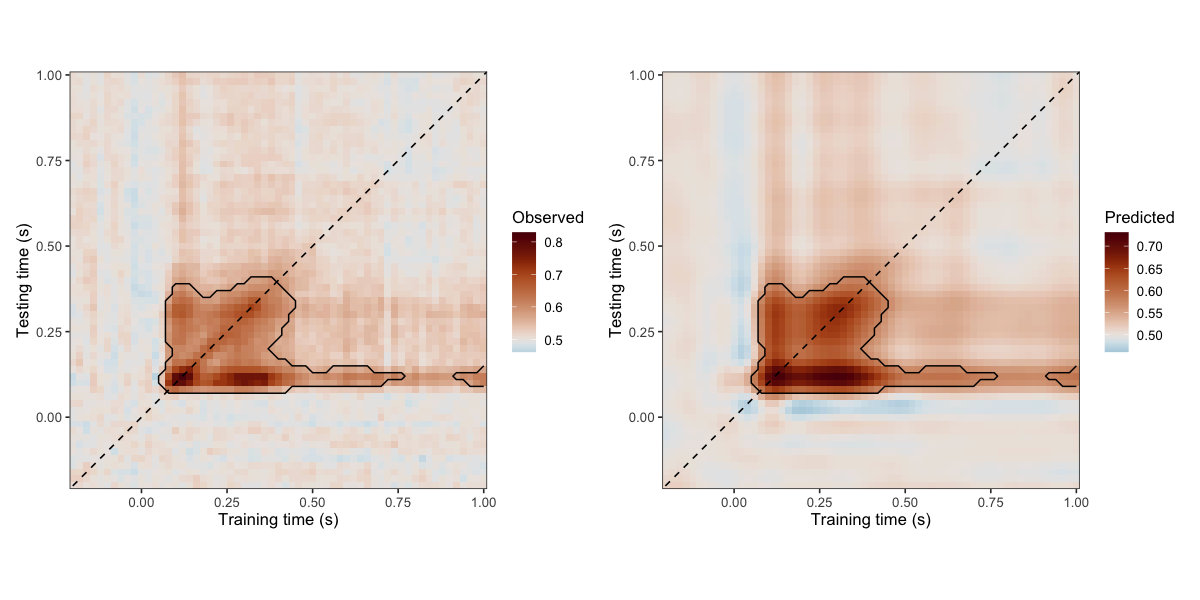
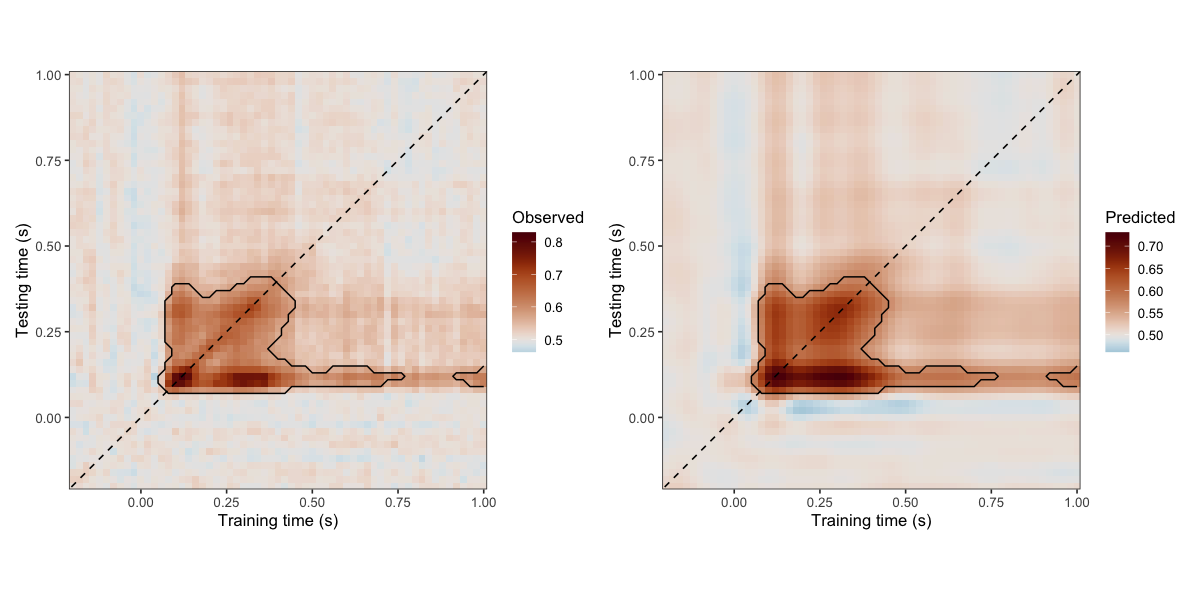
minor updates to pkgdown site and cran comments

diff --git a/docs/articles/eeg_spatio_temporal.html b/docs/articles/eeg_spatio_temporal.html
@@ -281,7 +281,7 @@ y_{i,s,t} \sim \mathcal{N}(\mu_{i,s,t},\sigma^2), \qquad
 <span>        d <span class="op">=</span> <span class="fu"><a href="https://rdrr.io/r/base/c.html" class="external-link">c</a></span><span class="op">(</span><span class="fl">2</span>, <span class="fl">1</span><span class="op">)</span></span>
 <span>        <span class="op">)</span> <span class="op">+</span></span>
 <span>    <span class="op">(</span><span class="fl">1</span> <span class="op">|</span> <span class="va">participant</span><span class="op">)</span></span></code></pre></div>
-<p>The <code>d = c(2, 1)</code> argument defines two tensor-product marginals: one comprising <span class="math inline">\((x,y)\)</span> and another comprising time. Accordingly, <code>k = c(15, 10)</code> specifies the basis dimensions for <strong>two marginals</strong>, rather than a separate basis dimension for each of the three coordinates. The <code>k</code> values control basis flexibility, not the exact number of observed electrodes or time samples. See the <a href="https://stat.ethz.ch/R-manual/R-patched/library/mgcv/help/te.html" class="external-link">mgcv tensor-product documentation</a> and <a href="https://peerj.com/articles/6876/" class="external-link">Pedersen et al. (2019)</a>.</p>
+<p>The <code>d = c(2, 1)</code> argument defines two tensor-product marginals: one comprising <span class="math inline">\((x,y)\)</span> and another comprising time. Accordingly, <code>k = c(15, 10)</code> specifies the basis dimensions for <strong>two marginals</strong>, rather than a separate basis dimension for each of the three coordinates. The <code>k</code> values control basis flexibility, not the exact number of observed electrodes or time samples. See the <a href="https://stat.ethz.ch/R-manual/R-patched/library/mgcv/help/te.html" class="external-link">mgcv tensor-product documentation</a> and <a href="https://pmc.ncbi.nlm.nih.gov/articles/PMC6542350/" class="external-link">Pedersen et al. (2019)</a>.</p>
 <p><code>neurogam</code> constructs the formula automatically. We can inspect it without fitting anything:</p>
 <div class="sourceCode" id="cb8"><pre class="downlit sourceCode r">
 <code class="sourceCode R"><span><span class="va">formula_st</span> <span class="op">&lt;-</span> <span class="fu"><a href="../reference/make_bgam_formula.html">make_bgam_formula</a></span><span class="op">(</span></span>

diff --git a/docs/articles/temporal_2d.html b/docs/articles/temporal_2d.html
@@ -128,7 +128,7 @@
 <p>To model cross-temporal decoding performance, we use a BGAMM with a two-dimensional tensor-product smooth over training and testing times. The smooth term <code>t2(train_time, test_time)</code> allows the model to capture potentially nonlinear variation in decoding accuracy across the temporal generalisation matrix. We additionally include a participant-specific random intercept to account for between-participant differences in overall decoding performance, without introducing participant-specific smooths.</p>
 <p>Compared with one-dimensional temporal models, two-dimensional BGAMMs can be considerably more computationally demanding because they estimate a smooth surface rather than a single time course. We therefore recommend beginning with a relatively simple model, using moderate basis dimensions (<code>k</code>), before considering more complex random-effects structures.</p>
 <p>The example below uses two MCMC chains with within-chain parallelisation, implemented through <code>brms</code> and the <code>cmdstanr</code> backend. Computational requirements depend on the number of observations, basis dimensions, model structure, and available hardware.</p>
-<p>For a broader introduction to generalised additive models and tensor-product smooths, see <a href="https://peerj.com/articles/6876/" class="external-link">Pedersen et al. (2019)</a>.</p>
+<p>For a broader introduction to generalised additive models and tensor-product smooths, see <a href="https://pmc.ncbi.nlm.nih.gov/articles/PMC6542350/" class="external-link">Pedersen et al. (2019)</a>.</p>
 <div class="sourceCode" id="cb2"><pre class="downlit sourceCode r">
 <code class="sourceCode R"><span><span class="kw"><a href="https://rdrr.io/r/base/library.html" class="external-link">library</a></span><span class="op">(</span><span class="va"><a href="https://github.com/paul-buerkner/brms" class="external-link">brms</a></span><span class="op">)</span></span>
 <span></span>

diff --git a/docs/index.html b/docs/index.html
@@ -86,12 +86,12 @@
 <thead><tr>
 <th align="left">Analysis</th>
 <th align="left">Typical applications</th>
-<th align="left">Coordinates used for clustering</th>
+<th align="left">Coordinates</th>
 </tr></thead>
 <tbody>
 <tr>
 <td align="left"><strong>Temporal (1D)</strong></td>
-<td align="left">M/EEG or EMG time courses, pupillometry, representational similarity analysis (RSA), decoding accuracy, movement trajectories</td>
+<td align="left">EMG or M/EEG time courses (e.g., ERPs), pupillometry, representational similarity analysis (RSA), decoding accuracy, movement trajectories, etc.</td>
 <td align="left">Time</td>
 </tr>
 <tr>
@@ -383,7 +383,7 @@
 <div class="dev-status">
 <h2 data-toc-skip>Dev status</h2>
 <ul class="list-unstyled">
-<li><a href="https://www.repostatus.org/#wip" class="external-link"><img src="https://www.repostatus.org/badges/latest/wip.svg" alt="Repo status"></a></li>
+<li><a href="https://www.repostatus.org/#active" class="external-link"><img src="https://www.repostatus.org/badges/latest/active.svg" alt="Repo status"></a></li>
 <li><a href="https://github.com/lnalborczyk/neurogam" class="external-link"><img src="https://img.shields.io/github/repo-size/lnalborczyk/neurogam" alt="Repo size"></a></li>
 <li><a href="https://github.com/lnalborczyk/neurogam" class="external-link"><img src="https://img.shields.io/github/last-commit/lnalborczyk/neurogam" alt="Last commit"></a></li>
 </ul>

diff --git a/cran-comments.md b/cran-comments.md
@@ -1,19 +1,31 @@
-## Initial submission
+# CRAN submission comments
 
-This is the first submission of neurogam to CRAN.
+## Submission
 
-## R CMD check results
+This is the first submission of `neurogam` (version 0.1.0) to CRAN.
 
-0 errors | 0 warnings | 1 note
+## Test environments and check results
 
-The NOTE concerns the initial submission and the size of the source package.
+- macOS Sequoia 15.7.4 (Apple Silicon, aarch64), R 4.5.2: 0 ERRORs, 0 WARNINGs, 1 NOTE.
+- Windows Server 2022 (x86_64, UCRT), R-devel (2026-10-28, r90783), via win-builder: 0 ERRORs, 0 WARNINGs, 1 NOTE.
+- Ubuntu Linux, via GitHub Actions (CRAN-style R CMD check): checks passed.
 
-The package includes example electrophysiological datasets and precomputed documentation illustrating Bayesian analysis of time-resolved data. Computationally expensive Bayesian model fits are not executed during package checks.
+Package installation, examples, unit tests, vignette rebuilding, and PDF/HTML manual checks passed on both macOS and Windows R-devel.
 
-All vignettes build successfully without requiring cached model objects or fitting Bayesian models.
+## Notes
 
-## Platforms tested
+The incoming feasibility NOTE identifies this as a new submission.
 
-- macOS arm64, R 4.5.2
+On Windows R-devel, the incoming spelling check also highlighted scientific terms (including 'magnetoencephalography', 'electromyography', 'pupillometry', and 'spatiotemporal') and author surnames; these are intentional terms or names.
 
-Additional platforms will be listed following cross-platform validation.
+The Windows and macOS incoming checks reported an HTTP 429 response from a bioRxiv reference in a precompiled vignette. This is rate limiting by the external website, not a network request made by package code.
+
+## Source package and documentation size
+
+The compressed source archive is approximately 13.5 MB, above the recommended 10 MB. The installed documentation occupies approximately 6.1 MB, above the general 5 MB guideline; the example data occupy approximately 3.9 MB when installed.
+
+The package provides illustrated scientific vignettes demonstrating temporal, temporal-generalisation, and spatiotemporal analysis, together with example electrophysiological datasets. The documentation includes many plots needed to interpret time-resolved results and sensor topographies.
+
+Figure resolution has already been reduced to preserve legibility while minimising size. Bayesian model-fitting computations are precomputed for the distributed vignettes, so these computationally expensive analyses do not run during package checks, and vignette rebuilding is fast.
+
+I would appreciate consideration of this modest size exception because further downsampling or removal of figures would reduce the usefulness of the methodological documentation.

diff --git a/docs/index.md b/docs/index.md
@@ -8,9 +8,9 @@ visualisation of connected regions exceeding a posterior-odds threshold.
 
 The package supports three types of analysis:
 
-| Analysis | Typical applications | Coordinates used for clustering |
+| Analysis | Typical applications | Coordinates |
 |:---|:---|:---|
-| **Temporal (1D)** | M/EEG or EMG time courses, pupillometry, representational similarity analysis (RSA), decoding accuracy, movement trajectories | Time |
+| **Temporal (1D)** | EMG or M/EEG time courses (e.g., ERPs), pupillometry, representational similarity analysis (RSA), decoding accuracy, movement trajectories, etc. | Time |
 | **Temporal generalisation (2D)** | Cross-temporal decoding or representational-generalisation matrices | Training time x testing time |
 | **Spatio-temporal (3D)** | Sensor-level M/EEG smooths over projected sensor position and time | Sensor adjacency x time |
 

diff --git a/docs/articles/eeg_spatio_temporal.md b/docs/articles/eeg_spatio_temporal.md
@@ -294,7 +294,8 @@ coordinates. The `k` values control basis flexibility, not the exact
 number of observed electrodes or time samples. See the [mgcv
 tensor-product
 documentation](https://stat.ethz.ch/R-manual/R-patched/library/mgcv/help/te.html)
-and [Pedersen et al. (2019)](https://peerj.com/articles/6876/).
+and [Pedersen et
+al. (2019)](https://pmc.ncbi.nlm.nih.gov/articles/PMC6542350/).
 
 `neurogam` constructs the formula automatically. We can inspect it
 without fitting anything:

diff --git a/docs/articles/temporal_2d.md b/docs/articles/temporal_2d.md
@@ -103,7 +103,7 @@ dimensions, model structure, and available hardware.
 
 For a broader introduction to generalised additive models and
 tensor-product smooths, see [Pedersen et
-al. (2019)](https://peerj.com/articles/6876/).
+al. (2019)](https://pmc.ncbi.nlm.nih.gov/articles/PMC6542350/).
 
 ``` r
 
